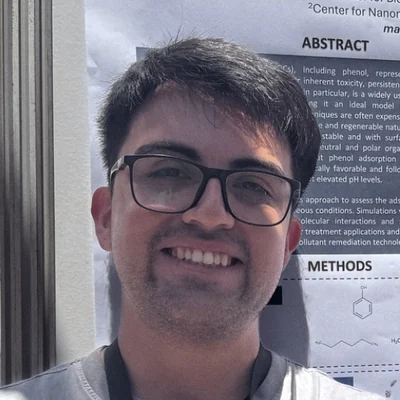
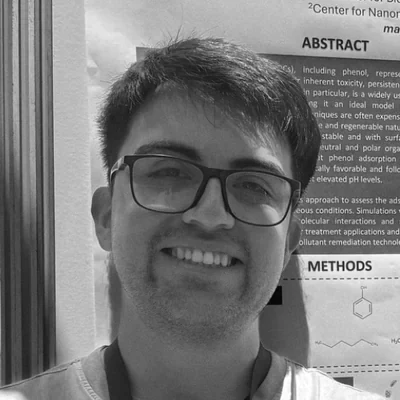
Centre the photo placeholder, store photos in black and white, extra DOIs for publications
Claude-Session: https://claude.ai/code/session_01UB6x648zVRyAUqwht8Rn4D

diff --git a/README.md b/README.md
@@ -67,7 +67,7 @@ npm run update-pubs
 
 Commit the updated file. The deploy workflow also refreshes the list on every run and once a week, falling back to the committed file if OpenAlex is unreachable.
 
-To hide an entry (a duplicate, an erratum, a wrong author match), add its DOI or OpenAlex id to `src/data/publications-exclude.json` and run the command again.
+To hide an entry (a duplicate, an erratum, a wrong author match), add its DOI or OpenAlex id to `src/data/publications-exclude.json` and run the command again. To force a paper in, add its DOI to `src/data/publications-extra.json`.
 
 Author names are highlighted by the patterns in `src/utils/textFormatters.ts`; add new members there.
 
